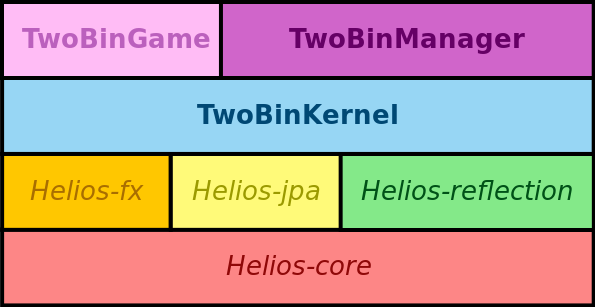
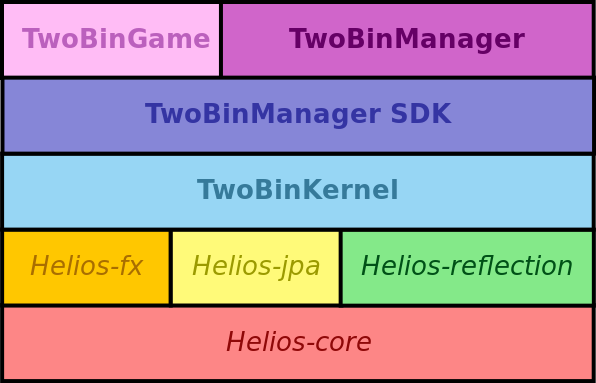
Update the architectural overview

diff --git a/README.md b/README.md
@@ -41,7 +41,9 @@ TwoBinPack consists of **3 components**:
 
   TwoBinManager features an extensible kernel, supporting *custom Scala plugins*.
 
-* [TwoBinKernel](https://github.com/giancosta86/TwoBinKernel): the Scala library at the heart of the other components; it simplifies the creation of *plugins for TwoBinManager* and can even be referenced *by other architectures* - provided they comply with its license
+* [TwoBinManager-sdk](https://github.com/giancosta86/TwoBinManager-sdk): a Scala library enabling the creation of plugins for TwoBinManager, as well as simplified communication with TwoBinManager's internal server
+
+* [TwoBinKernel](https://github.com/giancosta86/TwoBinKernel): the Scala library at the heart of the other components and expressing a shared model for two-dimensional packing problems
 
 TwoBinPack is based on **4 modules** of the [Helios](https://www.facebook.com/Helios-206962992779275/) open source library - namely:
 
@@ -77,7 +79,7 @@ TwoBinPack is based on **4 modules** of the [Helios](https://www.facebook.com/He
 * **Standard problem file** (*.txt* extension) is a plain text file describing a problem using a standard format - which is used, for example, at the [Operations Research Group](http://or.dei.unibo.it/) at the University of Bologna.
 
 
-Further documents can be easily supported by creating custom importers for TwoBinManager, using the SDK provided by TwoBinKernel.
+Further documents can be easily supported by creating custom importers for TwoBinManager, using the traits and classes provided by [TwoBinManager-sdk](https://github.com/giancosta86/TwoBinManager-sdk).
 
 
 ## Object-oriented and Functional programming
@@ -94,6 +96,8 @@ TwoBinPack leverages the **Scala programming language** and its *hybrid nature*,
 
 Such an *outstanding language* can enable *a smooth transition* from traditional OOP to a more modern, fluent and even robust **FP architecture** without losing *previous investments*.
 
+Another paramount aspect is *the Akka-based actor model* - employed, since version 3.0, to enable elegant client/server communication between TwoBinGame and TwoBinManager.
+
 
 ## License and technologies
 
@@ -102,6 +106,8 @@ TwoBinPack is open source - released under the [GPLv3 license](https://www.gnu.o
 * [Scala](http://www.scala-lang.org/)
 
 * [ScalaFX](http://www.scalafx.org/)
+
+* [Akka](http://akka.io/)
 
 * [Hibernate](http://hibernate.org/)
 
